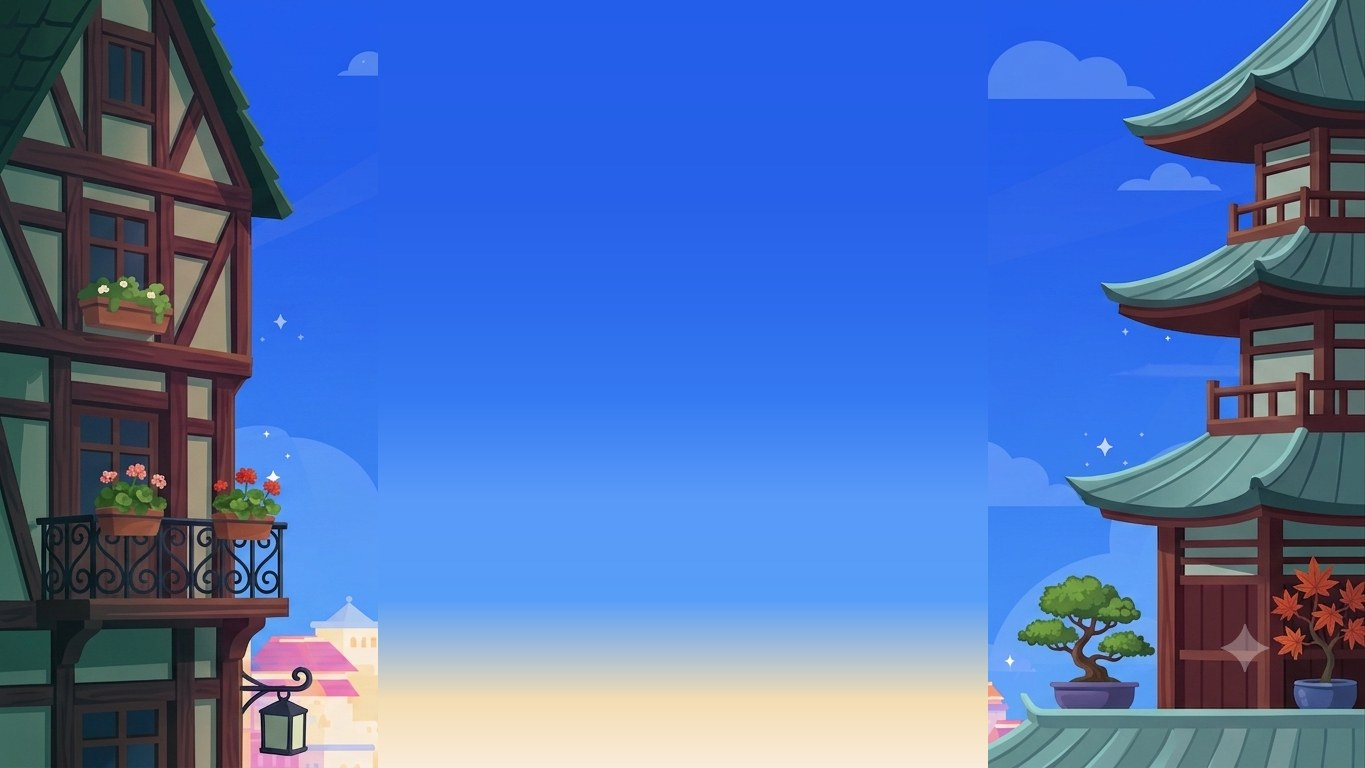
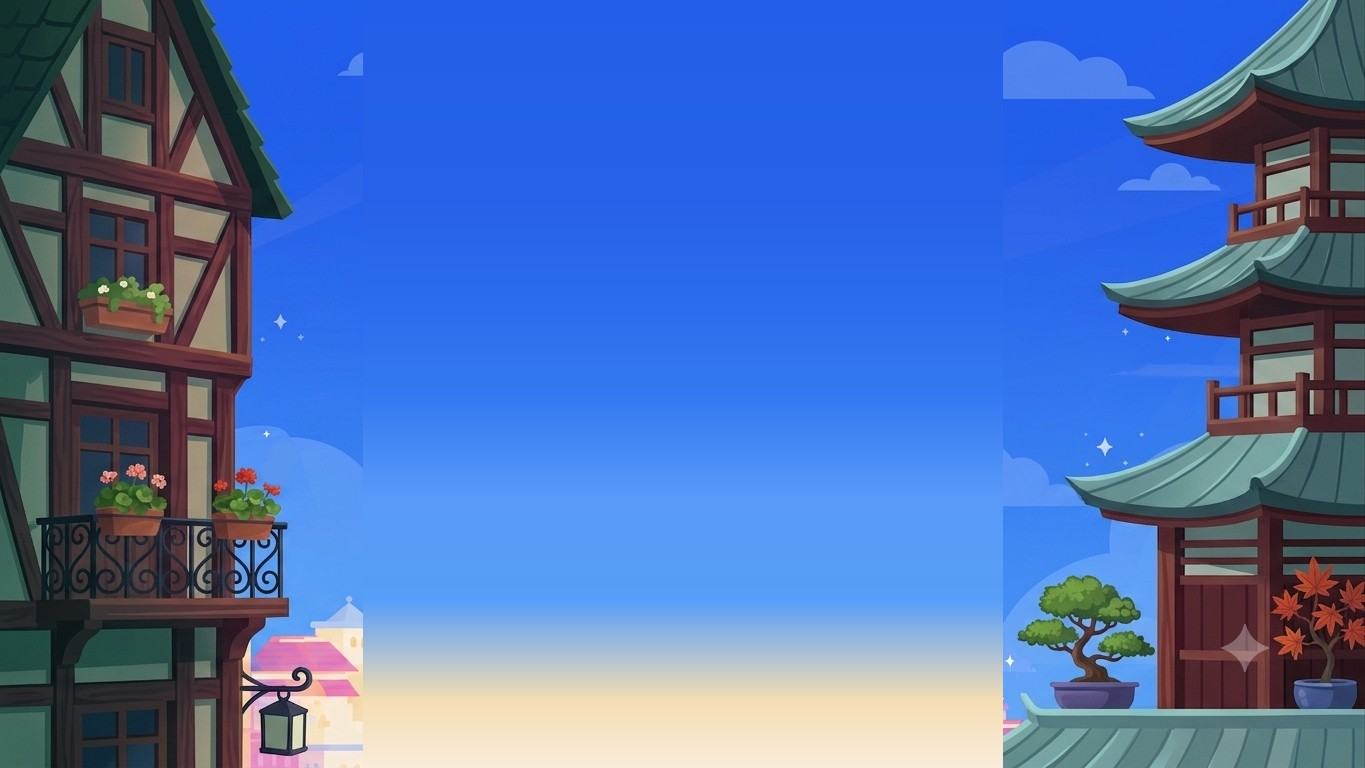
v1.215.0: фикс качества экрана входа — убрал синеватую обводку вокруг маскота (мягкий chroma-key с порогом по яркости + эрозия края вместо жёсткого порога, который оставлял кайму цвета неба и наоборот прогрызал тёмные контуры глаз/носа), убрал случайную вылезшую звёздочку рядом с цветами на балконе 

diff --git a/src/lib/changelog.ts b/src/lib/changelog.ts
@@ -2,6 +2,7 @@
 export type ChangelogEntry = { version: string; date: string; items: string[] }
 
 export const CHANGELOG: ChangelogEntry[] = [
+  { version: "1.214.0", date: "2026-07-11", items: ["экран входа/регистрации переделан 1-в-1 по референсу — фирменный маскот Ponoi свисает с карточки, пилюли-поля с иконками (юзернейм/email/пароль), градиентная синяя кнопка, \"Присоединяйся к своему миру\". Единственный экран, где сознательно ушли от Discord 1-в-1 — тут наоборот. Фон и маскот — реальные картинки (референс был готовым скриншотом-макетом целиком с текстом внутри; вырезал маскота с прозрачностью через чистый chroma-key по цвету неба и заменил область, где в макете была нарисована карточка, на подобранный по образцу градиент, иначе настоящая карточка накладывалась поверх нарисованной и было видно оба слоя сразу). Логика входа/регистрации не тронута."] },
   { version: "1.213.0", date: "2026-07-11", items: ["автопроверка обновлений для APK. Десктоп качает и ставит обновления сам (electron-updater), веб/PWA всегда грузит свежую версию (нет офлайн-кэша) — только у APK не было вообще ничего, обновлялся исключительно вручную. Теперь при запуске (только на реальном Android-APK, не в браузере) сверяется с последним GitHub Release", "если версия новее — баннер сверху с прямой ссылкой на .apk. Полностью тихая установка без Play Маркета невозможна (систему всё равно попросит подтвердить установку поверх старой), но сама проверка и ссылка теперь автоматические."] },
   { version: "1.212.0", date: "2026-07-11", items: ["мобильный интерфейс ближе к настоящему Discord (было — десктопные модалки/попапы сжаты под телефон). Настройки — полноэкранный список разделов карточками-группами вместо сдавленного в 78vw сайдбара", "тап по разделу открывает его на весь экран со стрелкой назад. Профиль — тап по своей панели снизу открывает полноэкранную карточку профиля (ProfileCard) напрямую, а не маленький попап MiniProfile, неудобный на тачскрине. Список ЛС — заголовок «Сообщения», поиск как пилюля с иконкой, круглая синяя кнопка «+», цвета вернули на Discord-тёмные (список бесед на телефоне ошибочно ушёл под цвета Telegram вместе с пузырями сообщений — сами пузыри сознательно оставлены как есть, это отдельная прошлая правка). Иконки серверов в рейле — красный бейджик с числом упоминаний (как в мобильном Discord), с той же анимацией «взрыва», что у иконки в трее", "для этого счётчики из lib/badge.ts стали реактивными (useBadgeCount)."] },
   { version: "1.211.0", date: "2026-07-11", items: ["последний фикс android-apk — секрета ANDROID_KEYSTORE_BASE64 в репозитории нет и не было (проверили в Settings -> Secrets), но шаг \"Check for release keystore secret\" всё равно считал его \"present\" из-за моей же ошибки в экранировании кавычек bash (буквальные \\\" внутри $(...) в YAML plain scalar не экранировали ничего, просто становились двумя символами \" — непустая строка, тест -n всегда true). Из-за этого писался мусорный пустой release.keystore и Gradle падал на подписи APK. Переписано без хитрого экранирования."] },